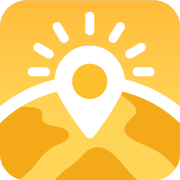
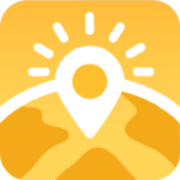
更新完整圖標套件 - 新增多尺寸PNG圖標和favicon.ico，優化iPhone Add to Home Screen顯示效果

diff --git a/index.html b/index.html
@@ -6,6 +6,9 @@
     <title>甦醒地圖 Wake Up World Travel</title>
     
     <!-- 網頁圖標設定 -->
+    <link rel="icon" href="favicon.ico">
+    <link rel="icon" href="favicon-16x16.png" sizes="16x16" type="image/png">
+    <link rel="icon" href="favicon-32x32.png" sizes="32x32" type="image/png">
     <link rel="icon" href="favicon.svg" type="image/svg+xml">
     <link rel="apple-touch-icon" href="apple-touch-icon.png">
     <link rel="apple-touch-icon" sizes="180x180" href="apple-touch-icon.png">
